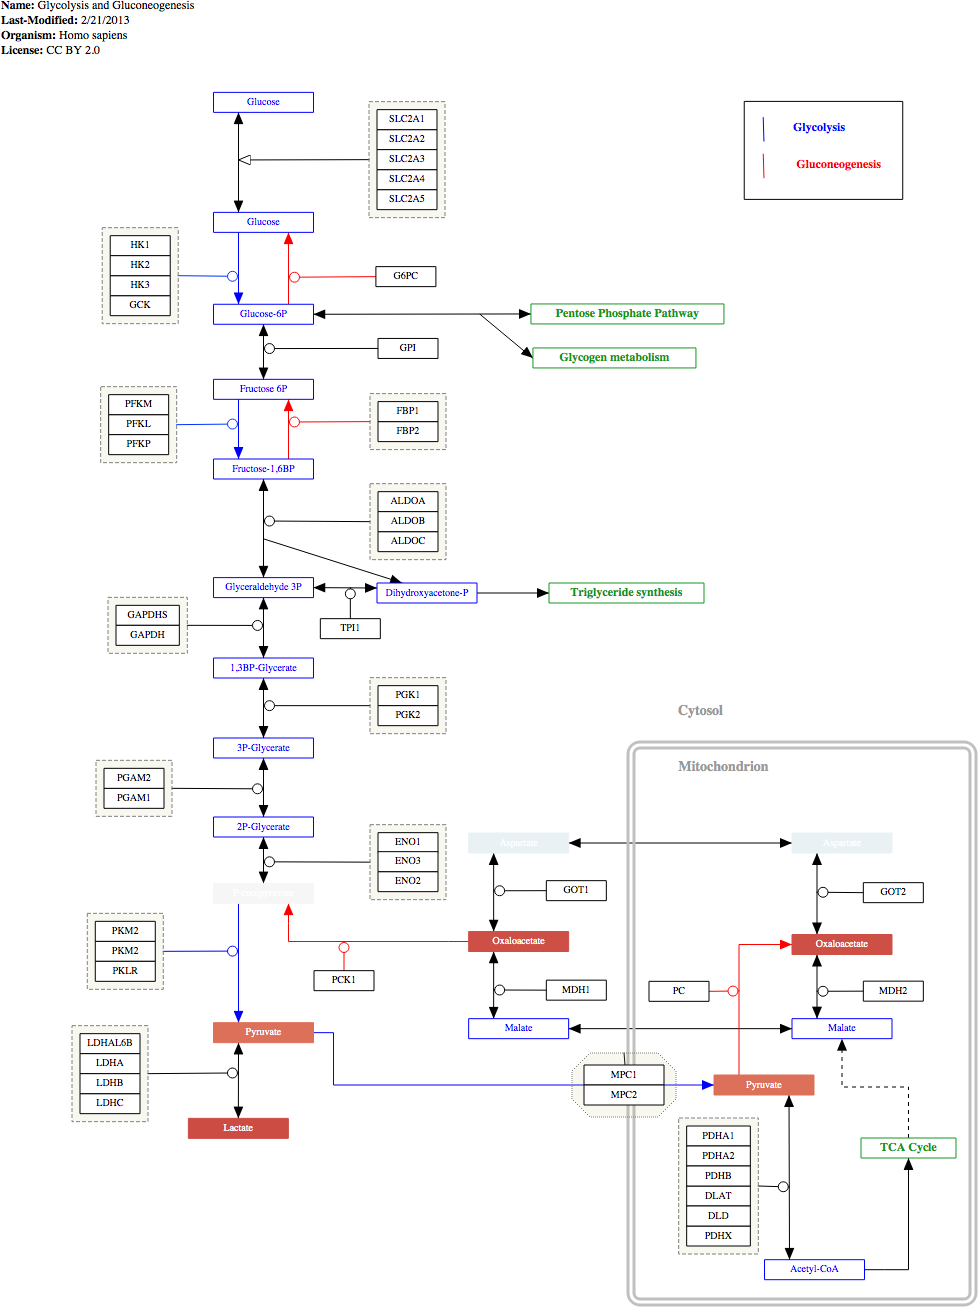
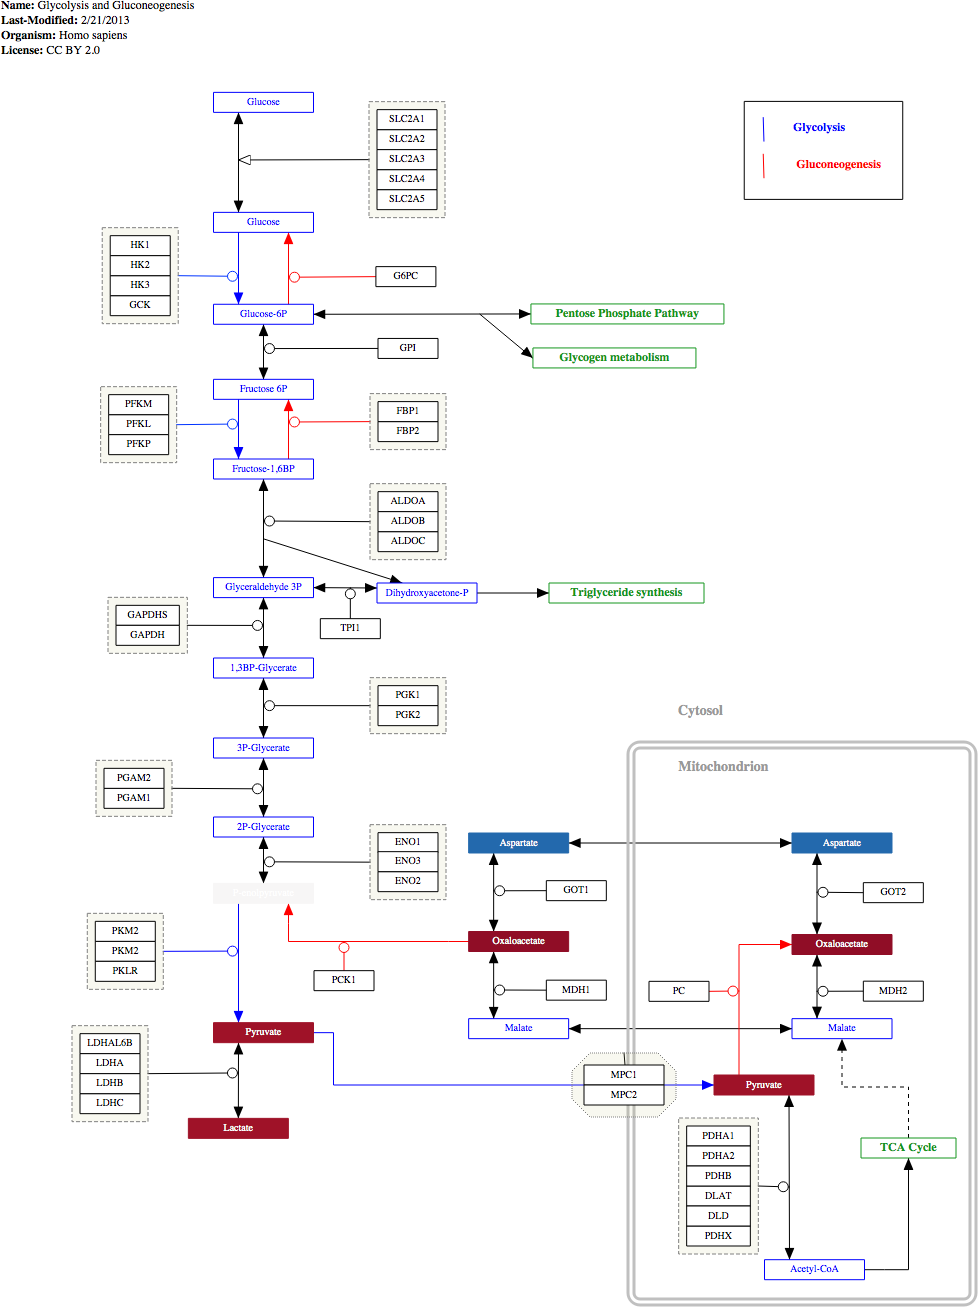
2D Analysis documentation

diff --git a/docs/demos/2d_jres_bml_nmr_analysis.rst b/docs/demos/2d_jres_bml_nmr_analysis.rst
@@ -13,6 +13,10 @@ You can download the `completed workflow`_ or follow the steps below to recreate
 This workflow is also distributed with the latest versions of Pathomx and can be found within
 the software via *Help > Demos*.
 
+The data used in this demonstration was derived from the culture of THP-1 macrophage cell 
+line under hypoxic conditions for 24hrs. Metabolites were extracted using a methanol-chloroform protocol.
+The class groups used here represent (N)ormoxia and (H)ypoxia respectively.
+
 Background
 ==========
 
@@ -150,10 +154,33 @@ is available on all plots once the data table contains the relevant information 
 Pathway analysis
 ----------------
 
-Moving onto more biological 
+Next we're going to generate three biological analysis visualisations - two using standard
+pathway maps (WikiPathways) and one using a pathway-mining algorithm approach to generate. However, before
+we do that we need to get our data into the right shape to allow it.
+
+For visualisation of change it's often useful to use fold-change (2-fold = doubled). However, it's
+not possible to calculate a fold change from 0 and so a artificial minima must be created. Because
+the sensitivity of the NMR approach varies for different metabolites we will here apply a local minima
+(on a per-metabolite basis). The simple tool *Local minima* will do this for us. Drag it into the workflow.
+It will automatically take input from *Mean center* but replace this by draggin the output from *Map to Biocyc* into the
+input for *Local minima*.
+
+Next drag and drop a *Fold change* tool into 
+the workflow. Select it and in the configuration panel change the Control setting to *N* and the 
+Test setting to *H*. We'll generate the two WikiPathways views first as they are the most straightforward.
+
+Drag 2x *WikiPathways & GPML* tools into the workflow area. They will probably raise errors (turn red) because 
+there is currently no GPML file defined. You can download them both from WikiPathways here: `Glycolysis`_ and `TCA Cycle`_.
+
+Select the first *WikiPathways & GPML* tool and select the *Open GPML* button from the configuration panel. Select the Glycolysis 
+pathway you downloaded (*WP534_74524.gpml*) and open it. You should see the following:
 
 .. image:: ../images/demos/thp1_2d_jres_bml_nmr/gpml_glycolysis.png
     :alt: Metabolite change visualised using WikiPathways Glycolysis pathway
+
+Repeat the process for the TCA cycle visualisation too.
+
+
 
 .. image:: ../images/demos/thp1_2d_jres_bml_nmr/mined_pathways.png
     :alt: Mined pathways map visualised using MetaboViz
@@ -176,3 +203,5 @@ If you're feeling adventurous there are a few things you can experiment with the
 .. _BML-NMR: http://www.bml-nmr.org/
 .. _let us know: https://github.com/pathomx/pathomx/issues/new
 .. _BioCyc: http://biocyc.org
+.. _Glycolysis: http://wikipathways.org//wpi/wpi.php?action=downloadFile&type=gpml&pwTitle=Pathway:WP534&oldid=74524
+.. _TCA Cycle: http://wikipathways.org//wpi/wpi.php?action=downloadFile&type=gpml&pwTitle=Pathway:WP78&oldid=70014
